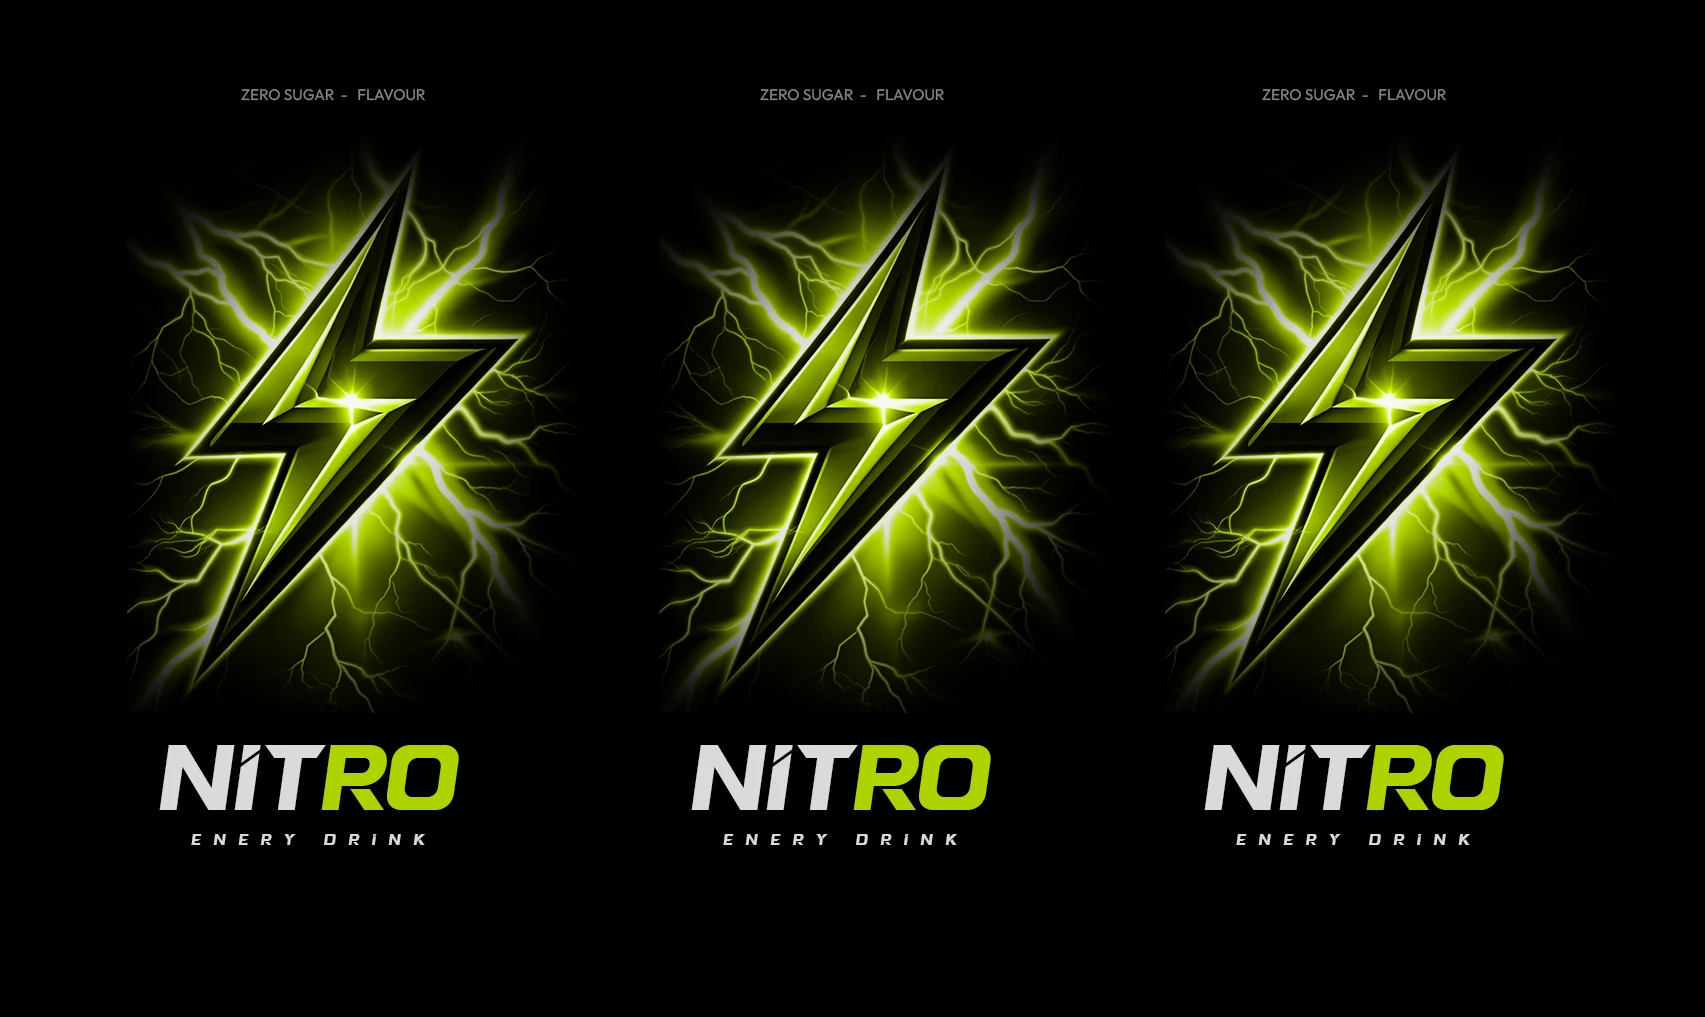
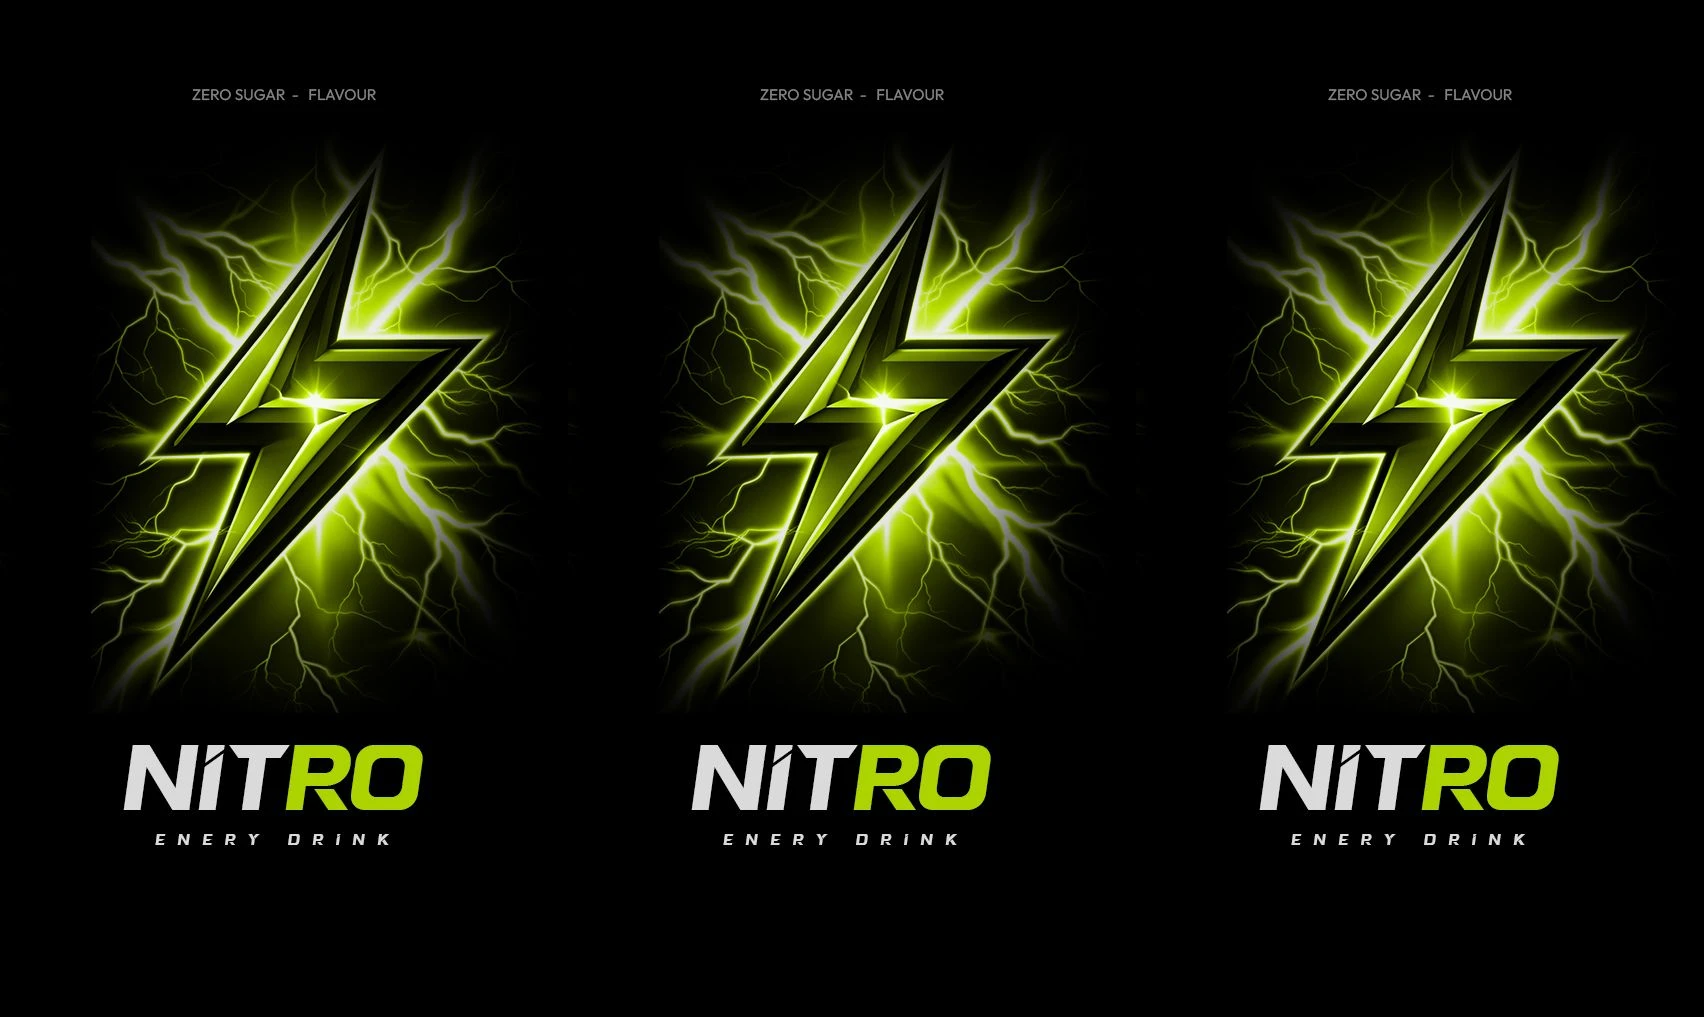
feat: implement can spin animation and hover effects for product cards

diff --git a/src/components/can/Can.tsx b/src/components/can/Can.tsx
@@ -1,28 +1,50 @@
-import type { CSSProperties } from 'react';
+import { useImperativeHandle, useRef, type CSSProperties, type Ref } from 'react';
 import canBody from '../../assets/images/can-body.png?format=webp';
 import { LABEL_SHIFT } from '../../data/can';
 import { cx } from '../../lib/cx';
 
+/** Elements the animation layer drives. */
+export interface CanHandle {
+  wrapper: HTMLDivElement;
+  label: HTMLImageElement;
+  shine: HTMLDivElement;
+}
+
 interface CanProps {
-  /** Wide label strip (≈ 4.32 × can width). */
+  /** Wide label strip (≈ 4.32 × can width, one panel tiled 3×). */
   label: string;
   /** Accessible name; omit for a decorative can. */
   alt?: string;
-  /** Horizontal label position as a % of the label width — the "spin" angle. */
+  /** Resting label position as a % of the label width — the "spin" angle. */
   labelShift?: number;
   className?: string;
+  ref?: Ref<CanHandle>;
 }
 
 /**
  * An upright can sized by its parent's height (fixed aspect ratio).
- * Layers: aluminium body → label strip (colour-burned onto the body and
- * masked to its silhouette).
+ * Layers, bottom → top: aluminium body → label strip (colour-burned onto the
+ * body, masked to its silhouette, slides to fake the spin) → fixed shine.
  */
-export function Can({ label, alt, labelShift = LABEL_SHIFT.products, className }: CanProps) {
+export function Can({ label, alt, labelShift = LABEL_SHIFT.products, className, ref }: CanProps) {
+  const wrapperRef = useRef<HTMLDivElement>(null);
+  const labelRef = useRef<HTMLImageElement>(null);
+  const shineRef = useRef<HTMLDivElement>(null);
+
+  useImperativeHandle(ref, () => {
+    const wrapper = wrapperRef.current;
+    const labelEl = labelRef.current;
+    const shine = shineRef.current;
+    if (!wrapper || !labelEl || !shine) throw new Error('Can: elements not mounted');
+    return { wrapper, label: labelEl, shine };
+  }, []);
+
   const style = { '--can-body': `url(${canBody})` } as CSSProperties;
 
   return (
     <div
+      ref={wrapperRef}
+      data-can
       className={cx('relative aspect-(--can-aspect) h-full select-none', className)}
       style={style}
       role={alt ? 'img' : undefined}
@@ -30,15 +52,20 @@ export function Can({ label, alt, labelShift = LABEL_SHIFT.products, className }
       aria-hidden={alt ? undefined : true}
     >
       <img src={canBody} alt="" draggable={false} className="absolute inset-0 size-full" />
-      <div className="absolute inset-0 overflow-hidden mix-blend-color-burn [mask-image:var(--can-body)] [mask-size:100%_100%]">
+      <div className="can-mask absolute inset-0 overflow-hidden mix-blend-color-burn">
         <img
+          ref={labelRef}
           src={label}
           alt=""
           draggable={false}
-          className="absolute top-[1.73%] left-0 h-[98.27%] w-auto max-w-none"
+          data-can-label
+          data-label-shift={labelShift}
+          className="absolute top-[1.73%] left-0 h-[98.27%] w-auto max-w-none will-change-transform"
+          // First paint only; GSAP takes over the transform (see primeLabels).
           style={{ transform: `translateX(${labelShift}%)` }}
         />
       </div>
+      <div ref={shineRef} data-can-shine className="can-mask can-shine absolute inset-0" />
     </div>
   );
 }

diff --git a/src/animations/canSpin.ts b/src/animations/canSpin.ts
@@ -1,0 +1,51 @@
+import { LABEL_PERIOD } from '../data/can';
+import { gsap } from './gsap';
+
+/*
+ * Spin = sliding the label strip horizontally inside the can's clip.
+ * The strip repeats every LABEL_PERIOD %, so the rendered position is wrapped
+ * into [-2·period, 0): the strip always covers the can, and a tween can run
+ * through any number of turns without ever running out of label.
+ */
+const wrapShift = gsap.utils.wrap(-2 * LABEL_PERIOD, 0);
+const wrapModifier = { xPercent: (value: number) => wrapShift(Number(value)) };
+
+const SPIN_DEFAULTS: gsap.TweenVars = { duration: 1.2, ease: 'power2.inOut' };
+
+/** Resting label position the component was rendered with. */
+function restShift(label: HTMLElement): number {
+  return Number(label.dataset.labelShift ?? 0);
+}
+
+/** Hands every label's transform to GSAP (replacing the inline first-paint style). */
+export function primeLabels(scope: ParentNode): void {
+  scope.querySelectorAll<HTMLElement>('[data-can-label]').forEach((label) => {
+    gsap.set(label, { x: 0, xPercent: restShift(label) });
+  });
+}
+
+/** Tween the label to an absolute shift (unwrapped values are fine — rendering wraps). */
+export function spinTo(
+  label: HTMLElement,
+  shift: number,
+  vars: gsap.TweenVars = {},
+): gsap.core.Tween {
+  return gsap.to(label, {
+    ...SPIN_DEFAULTS,
+    xPercent: shift,
+    modifiers: wrapModifier,
+    overwrite: true,
+    ...vars,
+  });
+}
+
+/**
+ * Spin by whole turns (negative = label moves left). Always lands on a
+ * rest-equivalent position, even when interrupting a running spin.
+ */
+export function spinBy(label: HTMLElement, turns = 1, vars: gsap.TweenVars = {}): gsap.core.Tween {
+  const rest = restShift(label);
+  const current = Number(gsap.getProperty(label, 'xPercent'));
+  const turnsFromRest = Math.round((current - rest) / LABEL_PERIOD);
+  return spinTo(label, rest + (turnsFromRest - turns) * LABEL_PERIOD, vars);
+}

diff --git a/scripts/tint-labels.ts b/scripts/tint-labels.ts
@@ -3,6 +3,10 @@
  * (hue of the flavour colour, saturation + luminosity of the base label) —
  * the same effect Figma uses — so the browser never has to blend at runtime.
  *
+ * The Figma label is three near-identical panels. To make the spin loop
+ * seamlessly we cut out the middle panel and tile it PANELS times, so shifting
+ * the label by exactly one panel width is invisible.
+ *
  * Run: npm run tint-labels
  */
 import { mkdir } from 'node:fs/promises';
@@ -11,6 +15,7 @@ import { flavours } from '../src/data/flavours.ts';
 
 const SOURCE = 'src/assets/images/label.png';
 const OUT_DIR = 'src/assets/labels';
+const PANELS = 3;
 
 type RGB = [number, number, number];
 
@@ -46,7 +51,23 @@ function hexToRgb(hex: string): RGB {
 
 async function main() {
   await mkdir(OUT_DIR, { recursive: true });
-  const { data, info } = await sharp(SOURCE)
+  const meta = await sharp(SOURCE).metadata();
+  const panelWidth = Math.floor(meta.width / PANELS);
+  const panel = await sharp(SOURCE)
+    .removeAlpha()
+    .extract({ left: panelWidth, top: 0, width: panelWidth, height: meta.height })
+    .toBuffer();
+  // `composite` always runs last in a sharp pipeline and adds alpha, so tile first,
+  // then strip alpha in a second pass to get packed RGB.
+  const strip = await sharp({
+    create: { width: panelWidth * PANELS, height: meta.height, channels: 3, background: '#000' },
+  })
+    .composite(
+      Array.from({ length: PANELS }, (_, i) => ({ input: panel, left: i * panelWidth, top: 0 })),
+    )
+    .png()
+    .toBuffer();
+  const { data, info } = await sharp(strip)
     .removeAlpha()
     .raw()
     .toBuffer({ resolveWithObject: true });

diff --git a/src/animations/hoverSpin.ts b/src/animations/hoverSpin.ts
@@ -1,0 +1,35 @@
+import { spinBy } from './canSpin';
+import { gsap } from './gsap';
+
+/**
+ * Product cards: on hover / keyboard focus the can lifts and spins one turn.
+ * Returns a cleanup that removes every listener.
+ */
+export function bindHoverSpin(scope: ParentNode): () => void {
+  const cleanups = Array.from(scope.querySelectorAll<HTMLElement>('[data-product]'), (card) => {
+    const can = card.querySelector<HTMLElement>('[data-can]');
+    const label = card.querySelector<HTMLElement>('[data-can-label]');
+    if (!can || !label) return () => {};
+
+    const enter = () => {
+      spinBy(label, 1);
+      gsap.to(can, { yPercent: -3, duration: 0.5, ease: 'power2.out', overwrite: 'auto' });
+    };
+    const leave = () => {
+      gsap.to(can, { yPercent: 0, duration: 0.6, ease: 'power2.inOut', overwrite: 'auto' });
+    };
+
+    card.addEventListener('pointerenter', enter);
+    card.addEventListener('pointerleave', leave);
+    card.addEventListener('focusin', enter);
+    card.addEventListener('focusout', leave);
+    return () => {
+      card.removeEventListener('pointerenter', enter);
+      card.removeEventListener('pointerleave', leave);
+      card.removeEventListener('focusin', enter);
+      card.removeEventListener('focusout', leave);
+    };
+  });
+
+  return () => cleanups.forEach((cleanup) => cleanup());
+}

diff --git a/src/App.tsx b/src/App.tsx
@@ -1,3 +1,7 @@
+import { useRef } from 'react';
+import { primeLabels } from './animations/canSpin';
+import { gsap, useGSAP } from './animations/gsap';
+import { bindHoverSpin } from './animations/hoverSpin';
 import { Footer } from './components/layout/Footer';
 import { Navbar } from './components/layout/Navbar';
 import { Hero } from './sections/Hero';
@@ -5,8 +9,25 @@ import { Products } from './sections/Products';
 import { Story } from './sections/Story';
 
 export default function App() {
+  const rootRef = useRef<HTMLDivElement>(null);
+
+  useGSAP(
+    () => {
+      const root = rootRef.current;
+      if (!root) return;
+
+      primeLabels(root);
+
+      const mm = gsap.matchMedia();
+      mm.add('(prefers-reduced-motion: no-preference) and (hover: hover)', () =>
+        bindHoverSpin(root),
+      );
+    },
+    { scope: rootRef },
+  );
+
   return (
-    <>
+    <div ref={rootRef}>
       <a
         href="#main"
         className="fixed top-2 left-2 z-[100] -translate-y-[200%] bg-accent px-4 py-2 font-medium text-ink focus-visible:translate-y-0"
@@ -20,6 +41,6 @@ export default function App() {
         <Products />
       </main>
       <Footer />
-    </>
+    </div>
   );
 }

diff --git a/src/styles/index.css b/src/styles/index.css
@@ -17,6 +17,8 @@
   --color-floor-lit: #828282;
   --color-floor-rim: #3c3c3c;
   --color-muted: rgb(255 255 255 / 0.62);
+  --color-shine: rgb(255 255 255 / 0.14);
+  --color-can-edge: rgb(0 0 0 / 0.5);
 
   /* Fonts — `--font-display` is a placeholder until the Sakana files arrive. */
   --font-display: 'Exo 2 Variable', 'Arial Black', sans-serif;
@@ -117,6 +119,28 @@
   );
   background-clip: text;
   color: transparent;
+}
+
+/* Clips a can layer to the can silhouette (needs --can-body set on an ancestor). */
+@utility can-mask {
+  mask-image: var(--can-body);
+  mask-size: 100% 100%;
+}
+
+/* Fixed light on the cylinder: dark rims + a soft specular band left of centre.
+   It never moves, so the label sliding beneath it reads as rotation. */
+@utility can-shine {
+  pointer-events: none;
+  background: linear-gradient(
+    90deg,
+    var(--color-can-edge) 0%,
+    transparent 16%,
+    transparent 24%,
+    var(--color-shine) 33%,
+    transparent 44%,
+    transparent 80%,
+    var(--color-can-edge) 100%
+  );
 }
 
 @utility no-scrollbar {

diff --git a/src/components/ui/ProductCard.tsx b/src/components/ui/ProductCard.tsx
@@ -41,11 +41,7 @@ export function ProductCard({ product, className }: ProductCardProps) {
             featured ? 'opacity-100' : 'opacity-0 group-hover:opacity-100',
           )}
         />
-        <Can
-          label={label}
-          alt={`${name} can`}
-          className="transition-transform duration-500 ease-out group-hover:-translate-y-[3%]"
-        />
+        <Can label={label} alt={`${name} can`} />
       </div>
 
       <div className="mt-[clamp(1.5rem,4.2svh,3rem)] flex flex-col gap-0.5 leading-normal">

diff --git a/src/animations/gsap.ts b/src/animations/gsap.ts
@@ -1,0 +1,9 @@
+/** Single place where GSAP plugins are registered. Import gsap from here. */
+import { useGSAP } from '@gsap/react';
+import gsap from 'gsap';
+import { ScrollTrigger } from 'gsap/ScrollTrigger';
+import { SplitText } from 'gsap/SplitText';
+
+gsap.registerPlugin(useGSAP, ScrollTrigger, SplitText);
+
+export { gsap, ScrollTrigger, SplitText, useGSAP };

diff --git a/src/data/can.ts b/src/data/can.ts
@@ -4,3 +4,9 @@
  * (the "spin" angle of the fake-3D can).
  */
 export const LABEL_SHIFT = { hero: -6.4, story: -68.3, products: -37.8 } as const;
+
+/**
+ * The label strip is one artwork panel tiled 3× (see scripts/tint-labels.ts),
+ * so moving it by one panel looks like one full turn of the can.
+ */
+export const LABEL_PERIOD = 100 / 3;

diff --git a/CLAUDE.md b/CLAUDE.md
@@ -23,8 +23,9 @@ Design source: Figma `ATbjoNJohvEAdmKZ3GzwPs` — frames `1:2` Hero, `1:48` Stor
 
 ## Process
 
-Build in stages, stop after each to show the result, then make a conventional commit
-(`feat:`, `fix:`, `chore:`, `refactor:`, `docs:`, `perf:`):
+Build in stages and stop after each to show the result. **Never run `git commit`** — the user
+commits. Suggest a conventional commit message (`feat:`, `fix:`, `chore:`, `refactor:`, `docs:`,
+`perf:`) instead:
 
 - a. Static, fully responsive layout (no animation)
 - b. Can component with spin and shine
@@ -106,7 +107,16 @@ colour fails WCAG AA on black (e.g. BLUE).
 - Layers: rounded clip (`overflow: hidden`) → can body image → wide label (4.32 × can width,
   color-burn blend, masked to can) → shine gradient → shadow ellipse.
 - Spin = moving the label horizontally (`xPercent`) inside the clip.
+- The Figma label's 3 panels are NOT identical, so `tint-labels` tiles the middle panel 3× →
+  strip repeats every `LABEL_PERIOD` (33.33%). Spins wrap into [-66.67%, 0) via a GSAP modifier,
+  so any number of turns is seamless. Use `spinTo` / `spinBy` from `animations/canSpin.ts`.
+- `Can` takes a React 19 `ref` → `CanHandle { wrapper, label, shine }`; also `data-can`,
+  `data-can-label` (+ `data-label-shift`), `data-can-shine` for selector-based animation.
+  Inline label transform is first-paint only; `primeLabels()` hands it to GSAP.
+- Shine (`can-shine` utility) is fixed — light source doesn't rotate, which sells the cylinder.
 - Side cans reuse the same label with a hue tint — pre-render tinted WebPs (no runtime blend).
+- Product cards: hover/focus = lift + one-turn spin (`animations/hoverSpin.ts`), only for
+  `(hover: hover)` and no reduced motion.
 
 ## Scroll timeline
 
